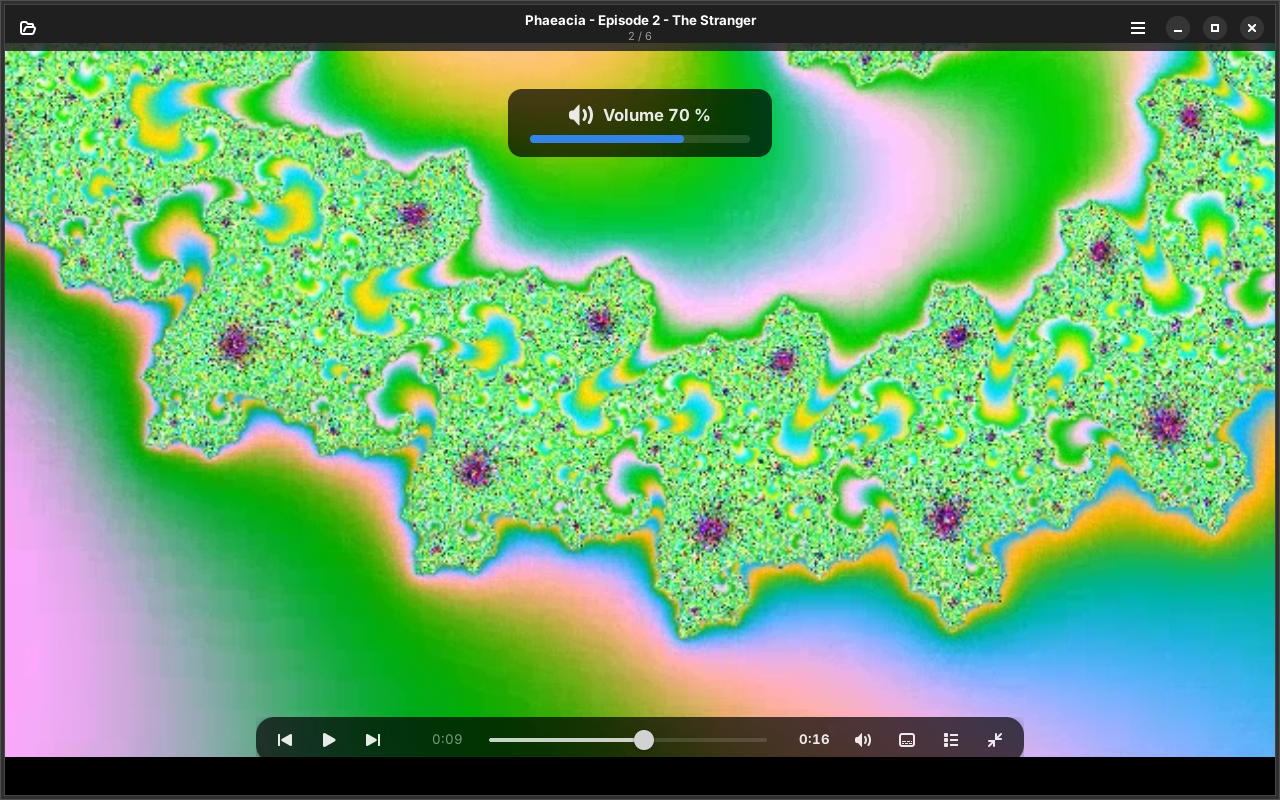
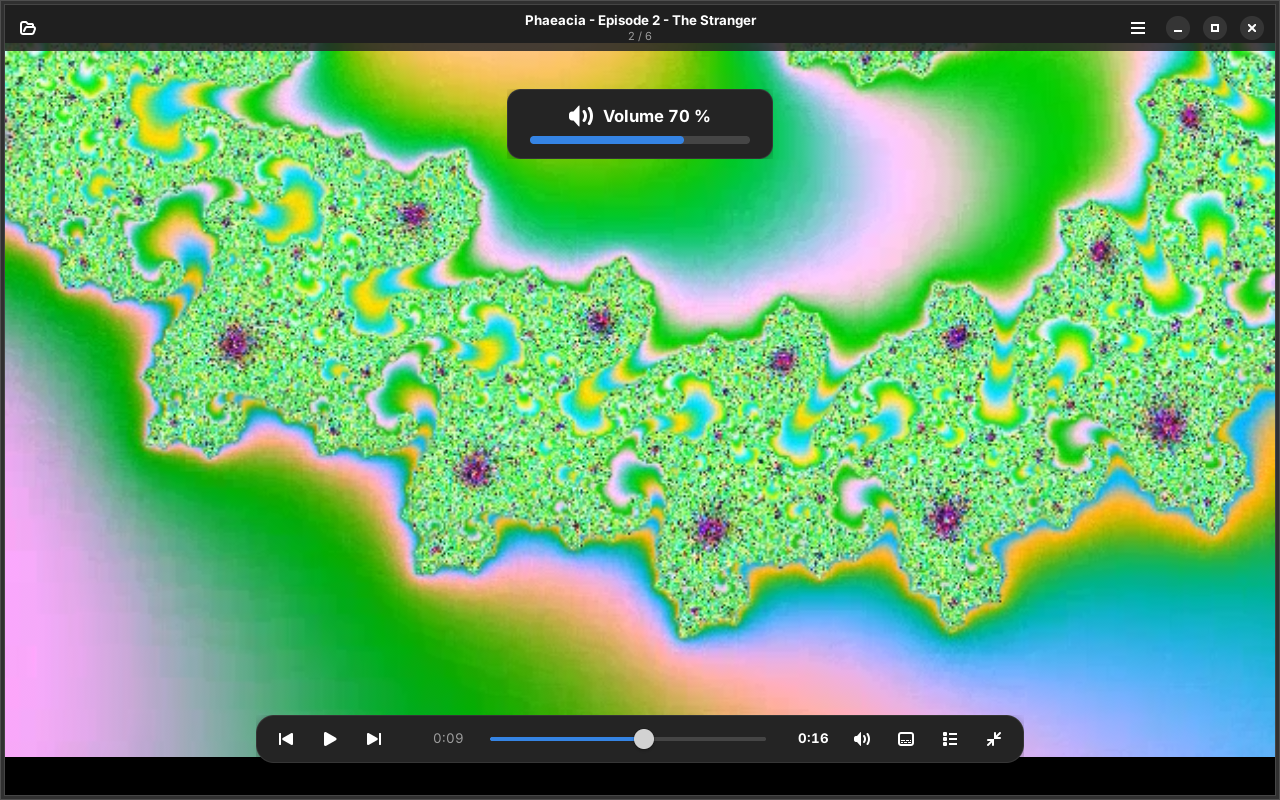
Version 0.1.3
Plein écran : la capsule des commandes et l'encart du volume prennent les
couleurs du thème (fond et texte de la fenêtre, transparence comprise,
comme les Propriétés d'Odysseus ; barres en couleur d'accent), comme en
fenêtré. Avant : classe « osd » de libadwaita, noire avec une barre
blanche, quel que soit le thème. Demande de Tof.

Claude-Session: https://claude.ai/code/session_01DLrkgZZZBUMYUUihuPcv9t

Changed region(s): [[0.2188, 0.875, 0.8125, 0.9688], [0.375, 0.0938, 0.625, 0.2188]]

diff --git a/data/base.css b/data/base.css
@@ -8,8 +8,12 @@
 /* Plein écran : barres posées sur l'image, translucides */
 .fullscreen-video headerbar { background-color: alpha(@window_bg_color, 0.85); }
 
-/* Plein écran : commandes compactes, centrées, arrondies, flottant au-dessus de l'image */
+/* Plein écran : commandes compactes, centrées, arrondies, flottant au-dessus de l'image ; fond et texte
+   de la fenêtre du thème (transparence comprise), barre d'avance en couleur d'accent comme en fenêtré */
 .nausicaa-controls.floating-controls {
+  background-color: @window_bg_color;
+  color: @window_fg_color;
+  border: 1px solid alpha(currentColor, 0.08);
   border-radius: 18px;
   padding: 6px 12px;
   box-shadow: 0 2px 12px alpha(black, 0.35);
@@ -22,7 +26,14 @@
 .numeric { font-feature-settings: "tnum"; }
 
 /* Affichage par-dessus l'image (volume, avance…) */
-.nausicaa-osd { padding: 14px 22px; border-radius: 14px; }
+.nausicaa-osd {
+  padding: 14px 22px;
+  border-radius: 14px;
+  background-color: @window_bg_color;
+  color: @window_fg_color;
+  border: 1px solid alpha(currentColor, 0.08);
+  box-shadow: 0 2px 12px alpha(black, 0.35);
+}
 .nausicaa-osd .osd-text { font-size: 1.25em; font-weight: 700; }
 .nausicaa-osd levelbar.osd-level trough { min-height: 6px; }
 .nausicaa-osd levelbar.osd-level block.filled { background-color: @accent_bg_color; }

diff --git a/site/index.html b/site/index.html
@@ -222,7 +222,7 @@
       <a href="#all">Everything</a>
       <a href="#install">Install</a>
       <a href="https://github.com/ToFpon/Nausicaa">GitHub</a>
-      <a href="#install" class="get-pill">v0.1.2 · available</a>
+      <a href="#install" class="get-pill">v0.1.3 · available</a>
     </div>
   </div>
 </nav>
@@ -232,7 +232,7 @@
   <div class="hero-bg"></div>
   <div class="wrap hero-in">
     <img class="hero-icon" src="img/icon.svg" alt="Nausicaa icon">
-    <span class="eyebrow"><span class="dot"></span> Version 0.1.2 · GTK4 · libadwaita · mpv · GPL-3.0</span>
+    <span class="eyebrow"><span class="dot"></span> Version 0.1.3 · GTK4 · libadwaita · mpv · GPL-3.0</span>
     <h1>Plays your videos.<br>And <span class="accent">nothing else</span>.</h1>
     <p class="lede">Nausicaa is a small video player for GNOME, built on the mpv engine. A simple window like Celluloid, the mouse habits of VLC — done right — and a queue that remembers where you stopped. No Flatpak.</p>
     <div class="strip" id="strip" aria-hidden="true"></div>

diff --git a/nausicaa/ui/window.py b/nausicaa/ui/window.py
@@ -477,8 +477,9 @@ class MainWindow(Adw.ApplicationWindow):
 
     def _float_controls(self, floating: bool):
         """Plein écran : commandes compactes, centrées en bas, arrondies, posées sur l'image (comme
-        Celluloid / VLC) — classe « osd » du thème : fond sombre translucide, icônes claires. La barre
-        quitte alors l'Adw.ToolbarView (sa zone du bas rognait les coins arrondis et l'ombre) pour un
+        Celluloid / VLC). Couleurs du thème, comme en fenêtré : fond de fenêtre (celui des Propriétés
+        d'Odysseus, transparence du thème comprise), barre d'avance en couleur d'accent — demande de
+        Tof ; la classe « osd » de libadwaita imposait du noir et une barre blanche. La barre quitte alors l'Adw.ToolbarView (sa zone du bas rognait les coins arrondis et l'ombre) pour un
         Gtk.Revealer posé sur l'image. Fenêtré : barre ordinaire sur toute la largeur."""
         c = self.controls
         if floating and c.get_parent() is not None and self.float_revealer.get_child() is not c:
@@ -487,11 +488,10 @@ class MainWindow(Adw.ApplicationWindow):
         elif not floating and self.float_revealer.get_child() is c:
             self.float_revealer.set_child(None)
             self.toolbar.add_bottom_bar(c)
-        for cls in ("osd", "floating-controls"):
-            if floating:
-                c.add_css_class(cls)
-            else:
-                c.remove_css_class(cls)
+        if floating:
+            c.add_css_class("floating-controls")
+        else:
+            c.remove_css_class("floating-controls")
         if floating:
             surface = self.get_surface()
             monitor = self.get_display().get_monitor_at_surface(surface) if surface is not None else None

diff --git a/nausicaa/ui/osd.py b/nausicaa/ui/osd.py
@@ -1,8 +1,9 @@
 """Affichage par-dessus la vidéo (volume à la molette, avance, vitesse…), comme VLC.
 
 Un seul encart, au milieu en haut de l'image : icône, texte et, pour le volume, une jauge. Il
-s'efface tout seul après DELAY ms ; chaque nouvel affichage relance le délai. Couleurs : la classe
-« osd » de libadwaita (fond sombre translucide du thème), aucune couleur fixe.
+s'efface tout seul après DELAY ms ; chaque nouvel affichage relance le délai. Couleurs : fond et texte
+de la fenêtre du thème (transparence comprise), jauge en couleur d'accent, comme la capsule de commandes
+du plein écran (demande de Tof) ; aucune couleur fixe.
 """
 
 from __future__ import annotations
@@ -23,8 +24,7 @@ class Osd(Gtk.Revealer):
                          halign=Gtk.Align.CENTER, valign=Gtk.Align.START, margin_top=24,
                          can_target=False, reveal_child=False)
         box = Gtk.Box(orientation=Gtk.Orientation.VERTICAL, spacing=8)
-        box.add_css_class("osd")
-        box.add_css_class("nausicaa-osd")
+        box.add_css_class("nausicaa-osd")         # fond de fenêtre du thème (base.css), comme la capsule
         line = Gtk.Box(spacing=10, halign=Gtk.Align.CENTER)
         self.icon = Gtk.Image(pixel_size=24)
         self.label = Gtk.Label()

diff --git a/tests/ui_smoke.py b/tests/ui_smoke.py
@@ -233,7 +233,9 @@ def clic_pause_double_clic(win):
 @step
 def plein_ecran_barres(win):
     check(win.toolbar.get_extend_content_to_bottom_edge(), "plein écran : l'image va jusqu'en bas")
-    check(win.float_revealer.get_child() is win.controls and "osd" in win.controls.get_css_classes(),
+    check(win.float_revealer.get_child() is win.controls
+          and "floating-controls" in win.controls.get_css_classes()
+          and "osd" not in win.controls.get_css_classes(),
           "plein écran : commandes compactes, flottantes, centrées")
     check(not win.split.get_show_sidebar(), "plein écran : pas de file à côté")
     win._over_bars = False
@@ -251,7 +253,7 @@ def plein_ecran_barres(win):
     win.activate_action("win.leave-fullscreen", None)
     yield Wait(2, until=lambda: not win.is_fullscreen())
     check(not win.is_fullscreen() and win.controls_visible(), "Échap : fenêtre, barres visibles")
-    check(win.controls.get_parent() is not win.float_revealer and "osd" not in win.controls.get_css_classes(),
+    check(win.controls.get_parent() is not win.float_revealer and "floating-controls" not in win.controls.get_css_classes(),
           "Échap : commandes revenues dans la fenêtre")
 
 

diff --git a/nausicaa/__init__.py b/nausicaa/__init__.py
@@ -2,4 +2,4 @@
 
 APP_ID = "io.github.nausicaa.Nausicaa"
 APP_NAME = "Nausicaa"
-VERSION = "0.1.2"
+VERSION = "0.1.3"

diff --git a/CLAUDE.md b/CLAUDE.md
@@ -63,9 +63,11 @@ tests, paquet.
   avons mis en pause. `ui/osd.py` : encart « osd » du thème. `ui/controls.py`, `ui/playlist_panel.py`
   (ListBox, glisser pour réordonner), `ui/shortcuts.py` (ShortcutsWindow en XML).
   Plein écran : la barre de commandes QUITTE l'Adw.ToolbarView pour `float_revealer` (Gtk.Revealer posé
-  sur l'image, centré en bas, classe « osd » du thème, 60 % de l'écran entre 480 et 820 px) — demande
+  sur l'image, centré en bas, 60 % de l'écran entre 480 et 820 px) — demande
   de Tof (comme Celluloid / VLC) ; dans la zone du bas de la ToolbarView, coins et ombre étaient rognés.
-  `controls_visible()` pour les tests.
+  `controls_visible()` pour les tests. Capsule (`.floating-controls`) et encart du volume (`.nausicaa-osd`) :
+  fond / texte de la fenêtre du thème (transparence comprise, comme les Propriétés d'Odysseus), barres en
+  couleur d'accent — pas la classe « osd » de libadwaita (noir, barre blanche), choix de Tof (0.1.3).
 - `backend/mpris.py` (repris d'Ithaca, demandé par Tof) : `org.mpris.MediaPlayer2.nausicaa`. Le casque
   Bluetooth passe par là : BlueZ relaie l'AVRCP (double tape = PlayPause, écouteurs retirés = Pause) au
   lecteur MPRIS actif — Ithaca les recevait, Nausicaa 0.1.1 non. Pause / Stop = pause (vidéo gardée),
